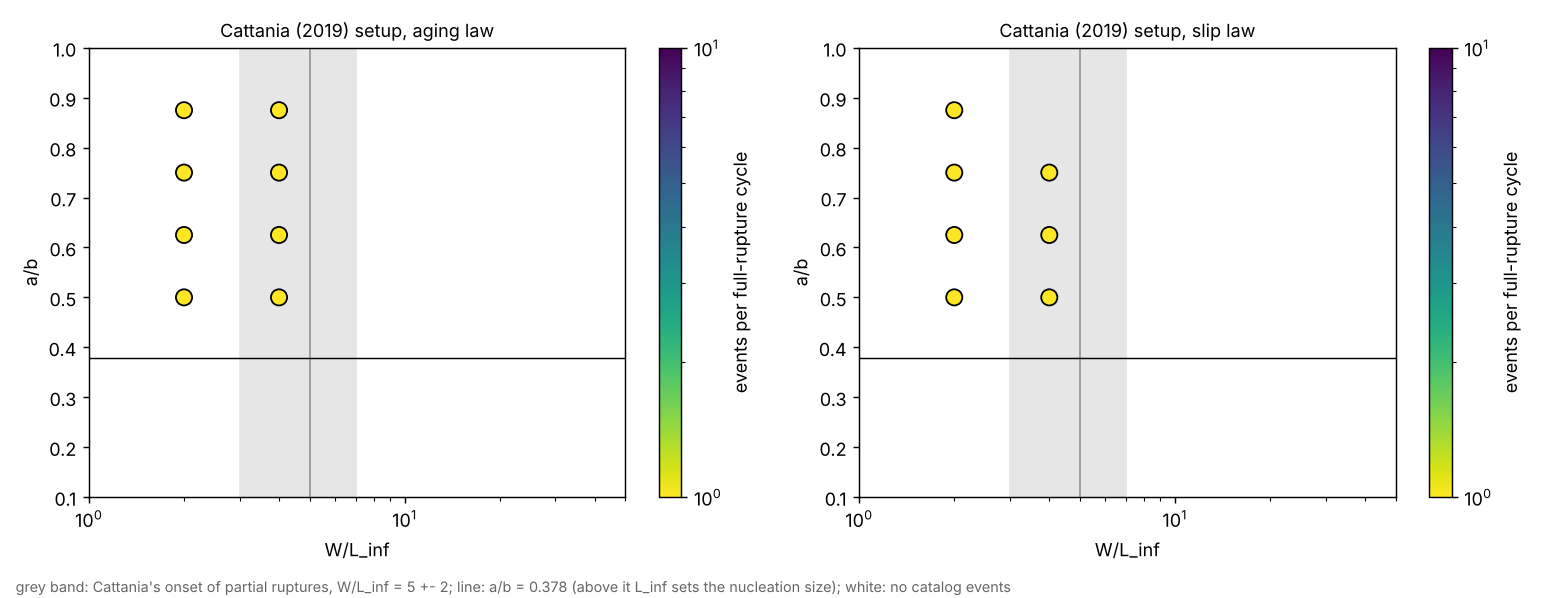
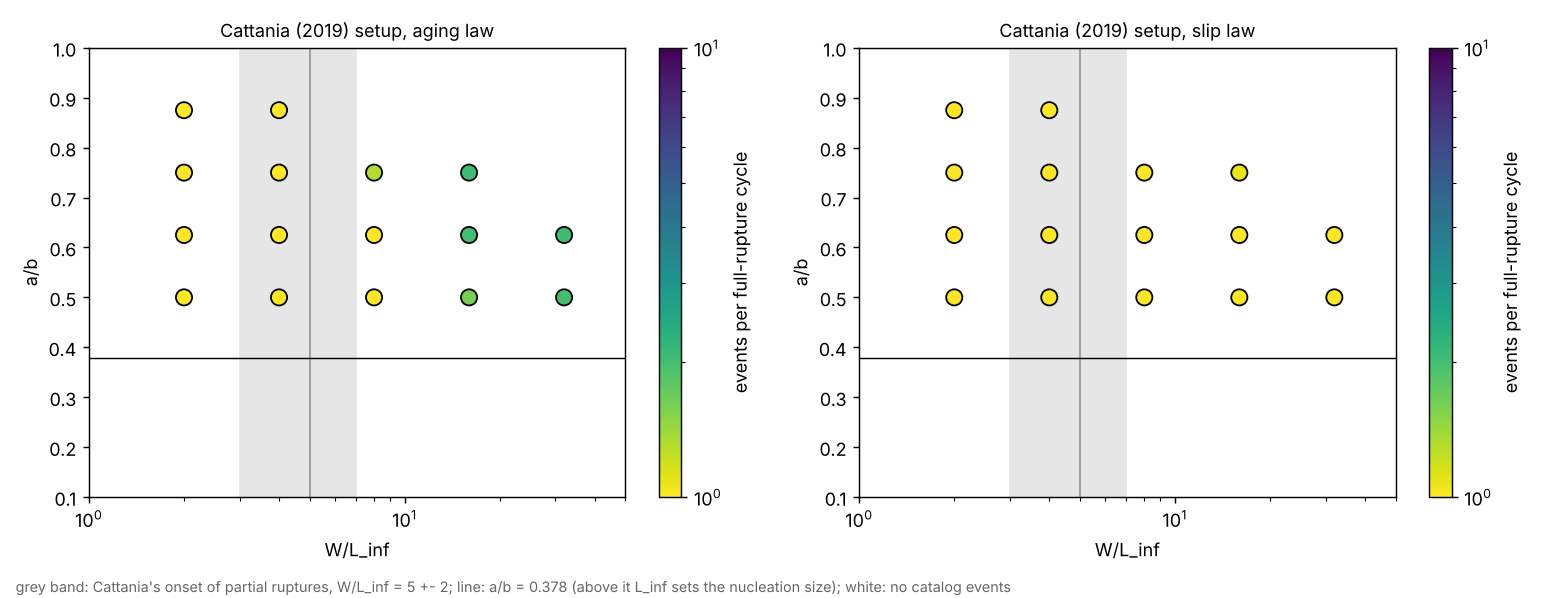
updated

diff --git a/strike_slip_networks/antiplane_2d/compare_papers.py b/strike_slip_networks/antiplane_2d/compare_papers.py
@@ -1,0 +1,173 @@
+#!/usr/bin/env python3
+"""
+compare_papers.py [rundir]: quantitative comparison of the
+run_parameter_maps runs with Wu & Chen (2014) and Cattania (2019), per
+state evolution law, from the classification of plot_parameter_maps.py.
+
+Wu & Chen: their regime boundaries W/h* = 0.6, 1.2, 5.5, 33, 105 with
+W/h* = (W/hc)(1 - a/b) predict a regime for every run (stable, slow,
+centre, side, narrow, wide); reported are the fraction of runs in the
+predicted regime, the mismatches, and per b/a the W/h* interval (between
+neighbouring grid points) of each transition seen here, against their
+value.
+
+Cattania: her estimate alpha = 0.45 (W/L_inf)^1/2 events per full-rupture
+cycle (at least 1) and her onset of partial ruptures at W/L_inf = 5 +- 2;
+reported are alpha(model)/alpha(estimate) per run and per a/b the
+W/L_inf interval in which partial ruptures (alpha > 1.2) set in.
+
+Writes comparison.txt, comparison_wuchen.png, comparison_cattania.png.
+"""
+import os
+import sys
+
+import matplotlib
+matplotlib.use("Agg")
+import matplotlib.pyplot as plt
+import numpy as np
+
+sys.path.insert(0, os.path.dirname(os.path.abspath(__file__)))
+import plot_parameter_maps as pm  # noqa: E402
+
+ORDER = ("stable", "slow", "centre", "side", "narrow", "wide")
+BOUNDS = (0.6, 1.2, 5.5, 33.0, 105.0)
+LAWCOL = {"aging": "C0", "slip": "C3", "prz": "C2"}
+
+
+def wc_predict(x, aob):
+    """predicted regime(s): both neighbours if W/h* lies within 10 percent
+    of one of their boundaries"""
+    wh = x * (1.0 - aob)
+    i = int(np.searchsorted(BOUNDS, wh))
+    pred = {ORDER[i]}
+    for j, b in enumerate(BOUNDS):
+        if abs(np.log(wh / b)) < np.log(1.1):
+            pred |= {ORDER[j], ORDER[j + 1]}
+    return pred, wh
+
+
+def collect(rd):
+    import glob
+    res = {}
+    for d in sorted(glob.glob(os.path.join(rd, "*_ab*_X*"))):
+        log = os.path.join(d, "rsf_solve.log")
+        if not os.path.exists(log):
+            continue
+        ll = open(log).read().splitlines()
+        if not ll or not ll[-1].startswith("wall"):
+            continue
+        name = os.path.basename(d)
+        model, law = name.split("_")[:2]
+        aob = float(name.split("_ab")[1].split("_X")[0])
+        try:
+            p, s, cat, maxlv = pm.classify(d)
+        except Exception:               # noqa: BLE001
+            continue
+        res[(model, law, aob, p["X"])] = (s, cat)
+    return res
+
+
+def transitions(xs, cats):
+    """W/hc intervals of the first change into each regime group"""
+    rank = {"stable": 0, "slow": 0, "centre": 1, "side": 2, "narrow": 3, "wide": 3}
+    out = {}
+    for lev, name in ((1, "seismic"), (2, "side"), (3, "partial")):
+        lo, hi = None, None
+        for x, c in zip(xs, cats):
+            if rank[c] >= lev:
+                hi = x
+                break
+            lo = x
+        out[name] = (lo, hi)
+    return out
+
+
+def main():
+    rd = sys.argv[1] if len(sys.argv) > 1 else "."
+    res = collect(rd)
+    laws = [l for l in ("aging", "slip", "prz") if any(k[1] == l for k in res)]
+    L = []
+    # Wu & Chen
+    L.append("Wu & Chen (2014) setup: regime predicted by their boundaries against the regime found")
+    fig, ax = plt.subplots(1, 3, figsize=(15, 4), sharey=True)
+    ref = {"seismic": 1.2, "side": 5.5, "partial": 33.0}
+    for law in laws:
+        ks = sorted(k for k in res if k[0] == "wuchen" and k[1] == law)
+        if not ks:
+            continue
+        match = [res[k][1] in wc_predict(k[3], k[2])[0] for k in ks]
+        L.append("  %s law: %i of %i runs in the predicted regime (%.0f %%; within 10 %% of a boundary "
+                 "either neighbour counts)" % (law, sum(match), len(ks),
+                 100.0 * np.mean(match)))
+        for k, m in zip(ks, match):
+            if not m:
+                L.append("    b/a %.2f W/hc %5.1f (W/h* %6.2f): predicted %-14s found %s" %
+                         (1 / k[2], k[3], wc_predict(k[3], k[2])[1], "/".join(sorted(wc_predict(k[3], k[2])[0])),
+                          res[k][1]))
+        for aob in sorted(set(k[2] for k in ks)):
+            kk = sorted(k for k in ks if k[2] == aob)
+            tr = transitions([k[3] for k in kk], [res[k][1] for k in kk])
+            for j, name in enumerate(("seismic", "side", "partial")):
+                lo, hi = tr[name]
+                f = 1.0 - aob
+                if hi is None:
+                    txt = "not reached up to W/h* %.2g" % (kk[-1][3] * f)
+                elif lo is None:
+                    txt = "already at the smallest W/h*, %.2g" % (hi * f)
+                else:
+                    txt = "between W/h* %.2g and %.2g" % (lo * f, hi * f)
+                L.append("    b/a %.2f, onset of %-7s: %-32s (Wu & Chen %g)" % (1 / aob, name, txt, ref[name]))
+                xpos = 1 / aob + {"aging": -0.04, "slip": 0, "prz": 0.04}[law]
+                if hi is None:          # not reached: lower bound, arrow up
+                    ax[j].annotate("", xy=(xpos, kk[-1][3] * f * 2.0), xytext=(xpos, kk[-1][3] * f),
+                                   arrowprops=dict(arrowstyle="->", color=LAWCOL[law], lw=2))
+                if hi is not None:
+                    y = (lo * f if lo is not None else hi * f / 2.0, hi * f)
+                    ax[j].plot([1 / aob + {"aging": -0.04, "slip": 0, "prz": 0.04}[law]] * 2, y, "-",
+                               color=LAWCOL[law], lw=4, alpha=0.7, label=law if aob == sorted(set(
+                                   k[2] for k in ks))[0] else None)
+    for j, name in enumerate(("seismic", "side", "partial")):
+        ax[j].axhline(ref[name], color="k", ls="--", lw=1, label="Wu & Chen")
+        ax[j].set_yscale("log")
+        ax[j].set_xlabel("b/a")
+        ax[j].set_title("onset of %s behaviour" % name if name != "side" else "nucleation moves to the ends",
+                        fontsize=10)
+        ax[j].legend(fontsize=7)
+    ax[0].set_ylabel("W/h* interval of the transition\n(arrows: not reached up to that value)")
+    fig.tight_layout()
+    fig.savefig(os.path.join(rd, "comparison_wuchen.png"), dpi=130)
+    # Cattania
+    L.append("")
+    L.append("Cattania (2019) setup: events per full-rupture cycle against 0.45 (W/L_inf)^1/2")
+    fig, ax = plt.subplots(1, len(laws), figsize=(5 * len(laws), 4), sharey=True, squeeze=False)
+    xx = np.logspace(0, 1.7, 50)
+    for j, law in enumerate(laws):
+        ks = sorted(k for k in res if k[0] == "cattania" and k[1] == law and res[k][0]["n"] > 0)
+        a = ax[0, j]
+        a.plot(xx, np.maximum(1, 0.45 * np.sqrt(xx)), "k-", lw=1, label="Cattania estimate")
+        a.axvspan(3, 7, color="0.9")
+        for aob, col in zip((0.5, 0.625, 0.75, 0.875), ("C0", "C1", "C2", "C3")):
+            kk = [k for k in ks if k[2] == aob]
+            a.plot([k[3] for k in kk], [res[k][0]["alpha"] for k in kk], "o-", color=col, label="a/b %g" % aob)
+            if kk:
+                onset = next((k[3] for k in kk if res[k][0]["alpha"] > 1.2), None)
+                before = [k[3] for k in kk if onset is None or k[3] < onset]
+                ratios = ["%.2f" % (res[k][0]["alpha"] / max(1.0, 0.45 * np.sqrt(k[3]))) for k in kk]
+                otxt = ("not reached up to W/L_inf %g" % kk[-1][3] if onset is None else
+                        "between W/L_inf %s and %g" % (max(before) if before else "<", onset))
+                L.append("  %s law, a/b %.3f: W/L_inf %s, alpha/estimate %s; onset of partial ruptures %s "
+                         "(Cattania 5 +- 2)" % (law, aob, [k[3] for k in kk], ratios, otxt))
+        a.set_xscale("log")
+        a.set_yscale("log")
+        a.set_xlabel("W/L_inf")
+        a.set_title("%s law" % law, fontsize=10)
+        a.legend(fontsize=7)
+    ax[0, 0].set_ylabel("events per full-rupture cycle")
+    fig.tight_layout()
+    fig.savefig(os.path.join(rd, "comparison_cattania.png"), dpi=130)
+    open(os.path.join(rd, "comparison.txt"), "w").write("\n".join(L) + "\n")
+    print("\n".join(L))
+
+
+if __name__ == "__main__":
+    main()

diff --git a/strike_slip_networks/antiplane_2d/plot_antiplane.py b/strike_slip_networks/antiplane_2d/plot_antiplane.py
@@ -55,6 +55,20 @@ def read_series(d, nc):
 
 
 def analyze(d):
+    """events, rupture lengths and nucleation points of one run; cached in
+    events.npz in the run directory, so that series.bin can be removed
+    afterwards to save space"""
+    cache = os.path.join(d, "events.npz")
+    if os.path.exists(cache) and (not os.path.exists(os.path.join(d, "series.bin")) or
+                                  os.path.getmtime(cache) >= os.path.getmtime(os.path.join(d, "series.bin"))):
+        z = np.load(cache)
+        return params(d), dict(on=z["on"], ln=z["ln"], nuc=z["nuc"])
+    p, r = _analyze(d)
+    np.savez(cache, on=r["on"], ln=r["ln"], nuc=r["nuc"])
+    return p, r
+
+
+def _analyze(d):
     p = params(d)
     c = np.loadtxt(os.path.join(d, "rsf_catalog.dat"), ndmin=2)
     tmax = float(open(os.path.join(d, "rsf_solve.log")).read().split("stop ")[1].split()[0]) \
@@ -199,6 +213,9 @@ def main():
             ax[j].axis("off")
             continue
         p, r, s = res[ks[-1]]
+        if "lv" not in r:               # from the events cache, series removed
+            ax[j].axis("off")
+            continue
         lv = r["lv"]
         w = slice(max(0, len(lv) - 4000), len(lv), max(1, len(lv[-4000:]) // 2000))
         im = ax[j].pcolormesh(np.arange(lv[w].shape[0]), (np.arange(lv.shape[1]) + 0.5) * p["ds"], lv[w].T,

diff --git a/strike_slip_networks/antiplane_2d/README.md b/strike_slip_networks/antiplane_2d/README.md
@@ -118,9 +118,88 @@ and parameter_map_cattania.png in the layout of Cattania's Figure 2a
 (events per full-rupture cycle by colour); the numbers are in
 parameter_maps.txt.
 
-Status (2026-11-09): Wu & Chen setup complete for W/hc 2 to 22 with the
-aging and slip laws; Cattania setup at W/L_inf 2 and 4. The larger runs
-(W/hc 45 and 90, W/L_inf 8 to 32) were not finished in this session.
+`compare_papers.py [rundir]` makes the comparison quantitative:
+for the Wu & Chen setup it predicts each run's regime from their
+boundaries and counts agreement (runs within 10 percent of a boundary
+match either neighbouring regime), and gives per b/a the W/h* interval
+of each transition between neighbouring grid points; for the Cattania
+setup it gives the ratio of events per full-rupture cycle to her
+estimate 0.45 (W/L_inf)^1/2 and the W/L_inf interval of the onset of
+partial ruptures. It writes comparison.txt, comparison_wuchen.png and
+comparison_cattania.png. plot_antiplane.py caches the events of each run
+in events.npz, so that the large series files can be deleted once a run
+has been analysed.
+
+### Results (2026-11-09/10, aging and slip law; single runs)
+
+Runs: Wu & Chen setup W/hc 2 to 45 at b/a 1.33, 2, 3 and W/hc 90 at
+b/a 2 (aging; W/hc 90 at b/a 3 and with the slip law were not finished);
+Cattania setup W/L_inf 2 to 32 at a/b 0.5 and 0.625, 2 to 16 at 0.75,
+2 and 4 at 0.875 (the slip-law run at a/b 0.75, W/L_inf 16 was stopped
+at 13.6 of 38.7 yr because of cost). PRZ runs are not included yet.
+
+Wu & Chen (2014) setup, regime predicted by their boundaries:
+
+| law | runs in the predicted regime |
+|---|---|
+| aging | 10 of 16 |
+| slip | 13 of 15 |
+
+Transition intervals in W/h* (their values 1.2, 5.5, 33):
+
+| b/a | law | events become seismic | nucleation moves to the ends | partial ruptures begin |
+|---|---|---|---|---|
+| 1.33 | aging | 0.5 to 1.2 | 2.8 to 5.5 | 5.5 to 11 |
+| 1.33 | slip | 0.5 to 1.2 | 2.8 to 5.5 | not up to 11 |
+| 2 | aging | 1 to 2.5 | 5.5 to 11 | 11 to 22 |
+| 2 | slip | at or below 1 | 5.5 to 11 | not up to 22 |
+| 3 | aging | at or below 1.3 | 3.3 to 7.3 | 7.3 to 15 |
+| 3 | slip | at or below 1.3 | 3.3 to 7.3 | not up to 30 |
+
+With the aging law the first two transitions agree with Wu & Chen within
+the grid resolution at all three b/a, and partial ruptures begin a
+factor of 2 to 5 below their W/h* = 33; a wide size distribution
+appears at W/h* 30 (b/a 3) and 45 (b/a 2), below their 105. In W/hc
+the onset of partial ruptures lies between about 20 and 45 at all three
+b/a, i.e. it does not follow a constant W/h* as their boundary does
+(the grid is coarse). Possible reasons for the earlier onset, none
+tested: the catalog counts all events above 1 mm/s while their
+classification may consider only larger ones, the buried half space
+standing in for their whole space, and the run length (30 recurrence
+estimates); cell size is unlikely, since the b/a 2 scan at their
+resolution (hc/10) gave the same.
+
+With the slip law, events become seismic at a smaller W/h* (b/a 2:
+events at W/h* 1, where the aging law has slow events, consistent with
+its smaller nucleation size), the nucleation moves to the ends at the
+same W/h*, and no partial ruptures occurred up to the largest W/h* run
+(30 at b/a 3), i.e. at least a factor 2 to 4 later than with the aging
+law.
+
+Cattania (2019) setup:
+
+| a/b | law | events per cycle / her estimate (W/L_inf 8, 16, 32) | onset of partial ruptures |
+|---|---|---|---|
+| 0.5 | aging | 0.79, 0.90, 0.79 | W/L_inf 8 to 16 |
+| 0.625 | aging | 0.79, 1.11, 0.81 | 8 to 16 |
+| 0.75 | aging | 1.03, 1.16 | 4 to 8 |
+| 0.5 | slip | 0.79, 0.56, 0.39 | not up to 32 |
+| 0.625 | slip | 0.79, 0.56, 0.39 | not up to 32 |
+| 0.75 | slip | 0.79, 0.60 | not up to 16 |
+
+(her onset: 5 +- 2; a ratio of 0.79 at W/L_inf 8 means one event per
+cycle where her estimate is 1.27.) With the aging law her estimate
+matches the number of events per cycle to about 20 percent where
+partial ruptures occur, and her onset at a/b 0.75; at a/b 0.5 and 0.625
+the onset lies between W/L_inf 8 and 16, later than her 5 +- 2. With
+the slip law no partial ruptures occurred up to W/L_inf 32.
+
+In both setups the slip law therefore leaves the onset of seismic
+behaviour and the move of nucleation to the ends nearly where the
+aging law has them (or earlier), but delays partial ruptures by at least
+a factor of 2 in fault size, consistent with the 2.5-D strips
+(../single_fault_regimes). The slip-law runs at a/b >= 0.75 are
+expensive (up to 20 min each on one core).
 
 Wu & Chen setup, aging law, against their map:
 
